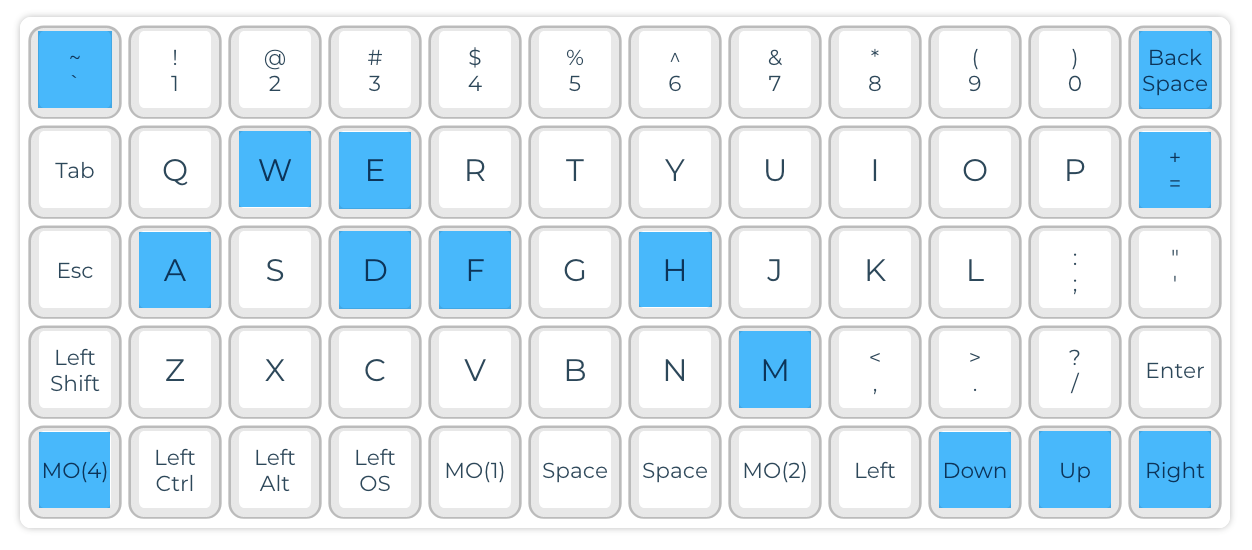
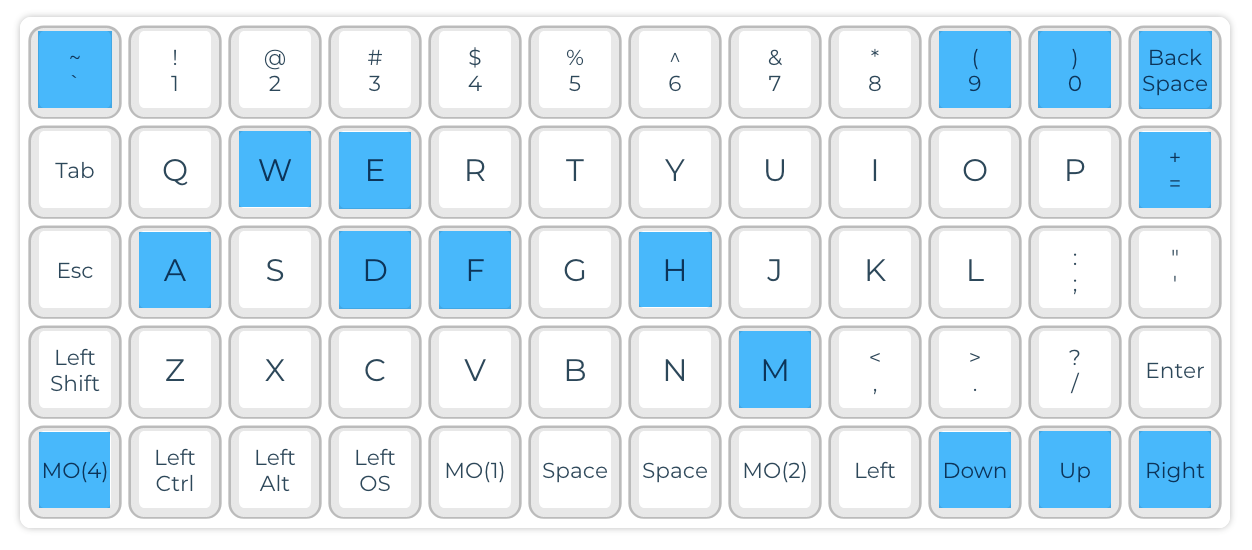
Update README

Changed region(s): [[0.7476, 0.0309, 0.9034, 0.2164]]

diff --git a/README.md b/README.md
@@ -20,3 +20,5 @@ Custom Keymaps for Mechanical Keyboards (QMK)
 * **Down** Decrease Font Size
 * **Up** Increase Font Size
 * **Right** Reset Font Size
+* **9** Fold Methods and Functions
+* **0** Unfold Methods and Functions
